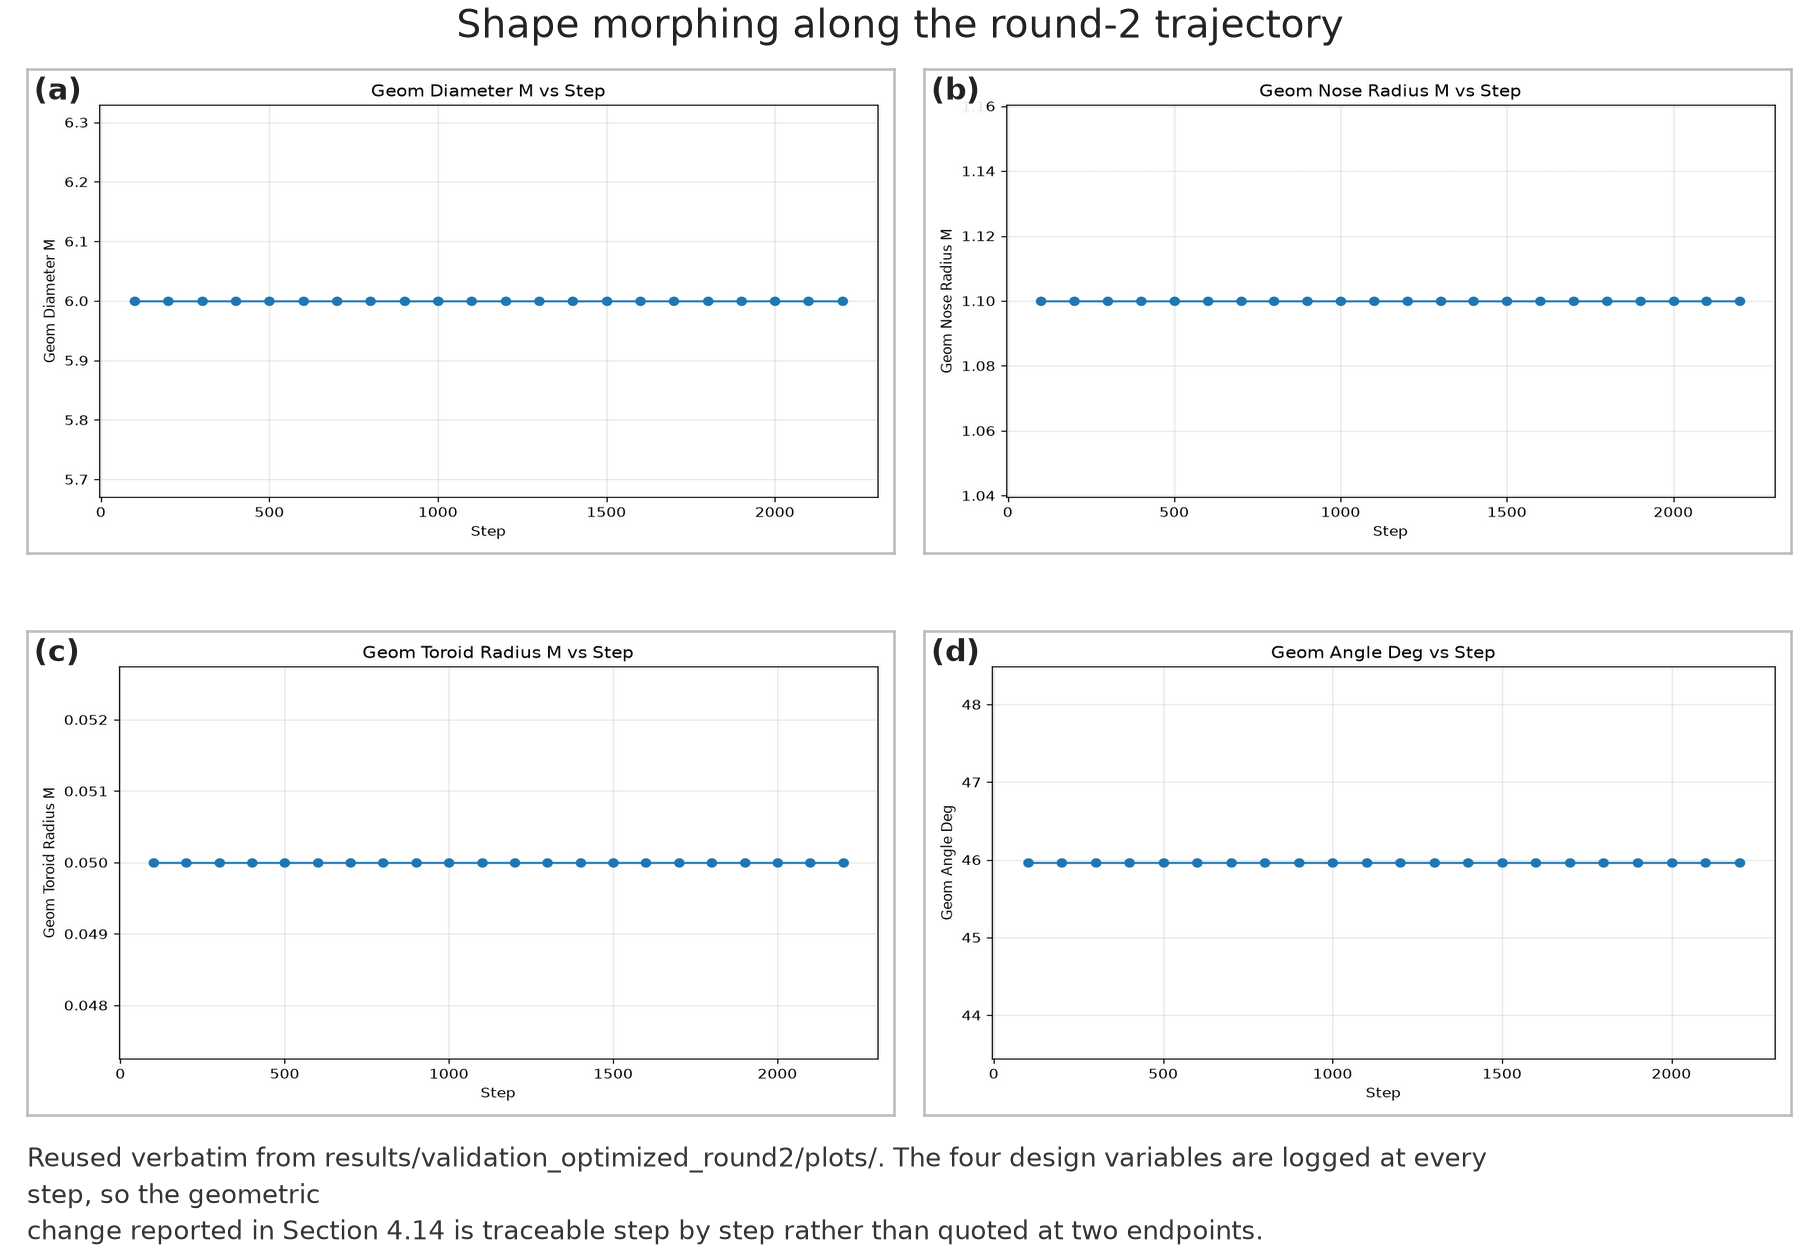
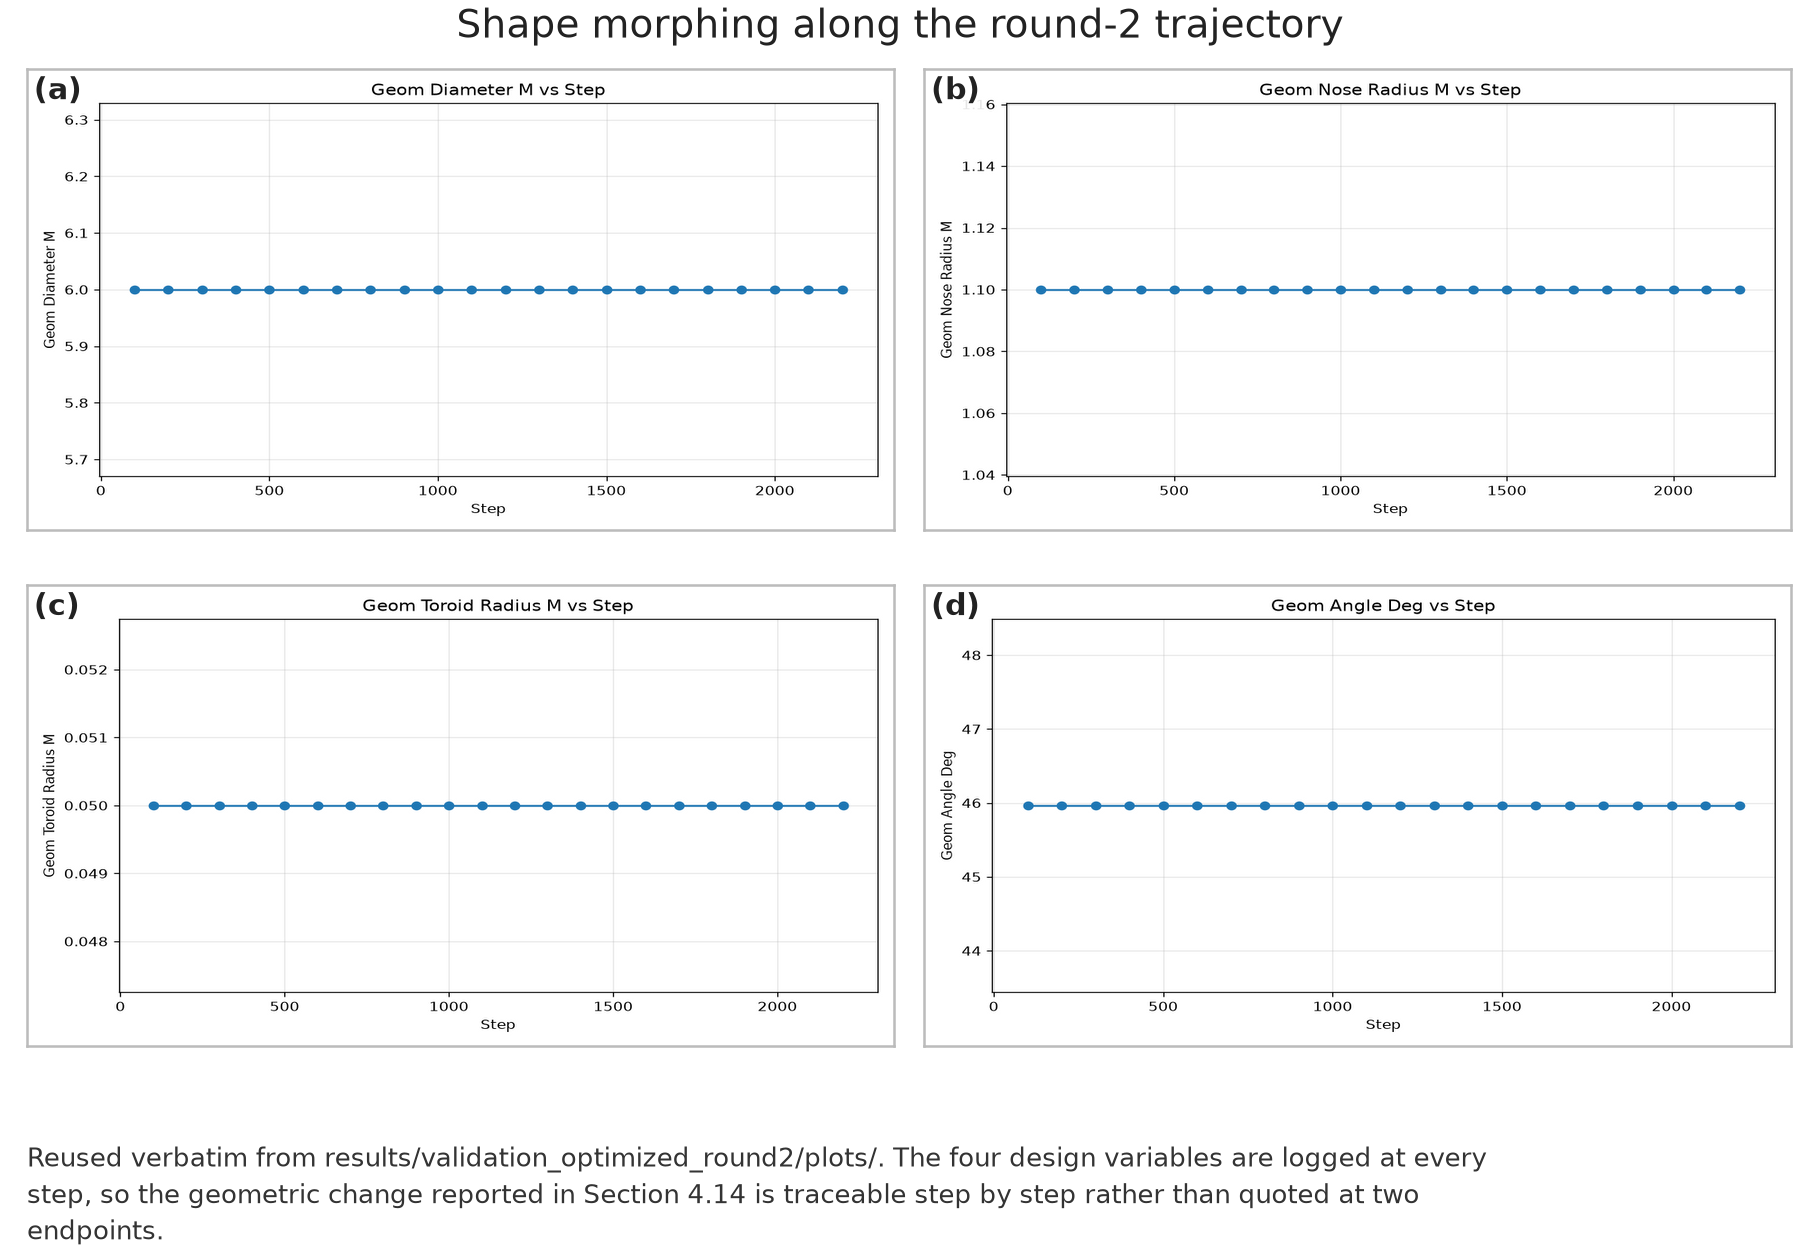
fix(ch4): loosen tight footer on Fig 4.23 (shape morphing)

diff --git a/Lost+Found/ProgressReport/CurrentThesisFinalReport/figures/make_results_plates.py b/Lost+Found/ProgressReport/CurrentThesisFinalReport/figures/make_results_plates.py
@@ -318,9 +318,9 @@ def main() -> int:
         figsize=(6.0, 4.2),
         suptitle="Shape morphing along the round-2 trajectory",
         footer=("Reused verbatim from results/validation_optimized_round2/plots/. The four design variables are "
-                "logged at every step, so the geometric\nchange reported in Section 4.14 is traceable step by "
+                "logged at every step, so the geometric change reported in Section 4.14 is traceable step by "
                 "step rather than quoted at two endpoints."),
-        bottom=0.115,
+        bottom=0.170, hspace=0.12,
     )
 
     placeholder(
